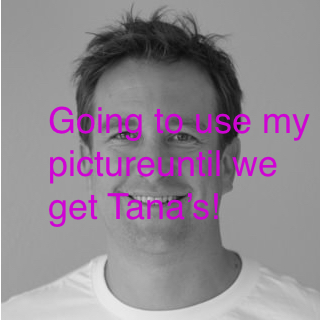
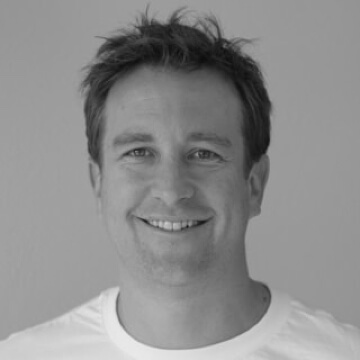
added formatting for team

diff --git a/home.html b/home.html
@@ -325,7 +325,7 @@
 
         <div class="portfolio__items">
 
-          <div class="col-xs-6 col-sm-4 col-md-3">
+          <div class="col-xs-6 col-md-4">
             <div class="portfolio__item">
               <div class="portfolio-item__img">
                 <a href="img/portfolio_1.jpg" data-lightbox="portfolio">
@@ -345,7 +345,7 @@
             </div> <!-- / .portfolio__item -->
           </div>
 
-          <div class="col-xs-6 col-sm-4 col-md-3">
+          <div class="col-xs-6 col-md-4">
             <div class="portfolio__item">
               <div class="portfolio-item__img">
                 <a href="img/portfolio_2.jpg" data-lightbox="portfolio">
@@ -365,7 +365,7 @@
             </div> <!-- / .portfolio__item -->
           </div>
 
-          <div class="col-xs-6 col-sm-4 col-md-3">
+          <div class="col-xs-6 col-md-4">
             <div class="portfolio__item">
               <div class="portfolio-item__img">
                 <a href="img/portfolio_3.jpg" data-lightbox="portfolio">
@@ -385,7 +385,7 @@
             </div> <!-- / .portfolio__item -->
           </div>
 
-          <div class="col-xs-6 col-sm-4 col-md-3">
+          <div class="col-xs-6 col-md-4">
             <div class="portfolio__item">
               <div class="portfolio-item__img">
                 <a href="img/portfolio_4.jpg" data-lightbox="portfolio">
@@ -405,7 +405,7 @@
             </div> <!-- / .portfolio__item -->
           </div>
 
-          <div class="col-xs-6 col-sm-4 col-md-3">
+          <div class="col-xs-6 col-md-4">
             <div class="portfolio__item">
               <div class="portfolio-item__img">
                 <a href="img/portfolio_5.jpg" data-lightbox="portfolio">
@@ -425,51 +425,11 @@
             </div> <!-- / .portfolio__item -->
           </div>
 
-          <div class="col-xs-6 col-sm-4 col-md-3">
+          <div class="col-xs-6 col-md-4">
             <div class="portfolio__item">
               <div class="portfolio-item__img">
                 <a href="img/portfolio_6.jpg" data-lightbox="portfolio">
                   <img src="img/portfolio_6.jpg" class="img-responsive" alt="...">
-                  <div class="portfolio-item__mask">
-                    <div class="portfolio-item-mask__content">
-                      <div class="portfolio-item-mask__title">
-                        In cursus diam at ante consectetur
-                      </div>
-                      <div class="portfolio-item-mask__summary">
-                        Pellentesque metus arcu, placerat nec porta in, ultricies id enim. Nullam sit amet viverra sapien, quis aliquet quam.
-                      </div>
-                    </div> <!-- / .portfolio-item-mask__content -->
-                  </div> <!-- / .portfolio-item__mask -->
-                </a>
-              </div> <!-- / .portfolio-item__img -->
-            </div> <!-- / .portfolio__item -->
-          </div>
-
-          <div class="col-xs-6 col-sm-4 col-md-3">
-            <div class="portfolio__item">
-              <div class="portfolio-item__img">
-                <a href="img/portfolio_7.jpg" data-lightbox="portfolio">
-                  <img src="img/portfolio_7.jpg" class="img-responsive" alt="...">
-                  <div class="portfolio-item__mask">
-                    <div class="portfolio-item-mask__content">
-                      <div class="portfolio-item-mask__title">
-                        In cursus diam at ante consectetur
-                      </div>
-                      <div class="portfolio-item-mask__summary">
-                        Pellentesque metus arcu, placerat nec porta in, ultricies id enim. Nullam sit amet viverra sapien, quis aliquet quam.
-                      </div>
-                    </div> <!-- / .portfolio-item-mask__content -->
-                  </div> <!-- / .portfolio-item__mask -->
-                </a>
-              </div> <!-- / .portfolio-item__img -->
-            </div> <!-- / .portfolio__item -->
-          </div>
-
-          <div class="col-xs-6 col-sm-4 col-md-3">
-            <div class="portfolio__item">
-              <div class="portfolio-item__img">
-                <a href="img/portfolio_8.jpg" data-lightbox="portfolio">
-                  <img src="img/portfolio_8.jpg" class="img-responsive" alt="...">
                   <div class="portfolio-item__mask">
                     <div class="portfolio-item-mask__content">
                       <div class="portfolio-item-mask__title">
@@ -512,7 +472,7 @@
                       <img src="img/team-matt.jpg" class="img-responsive" alt="...">
                     </div>
                     <div class="row">
-                      <div class="col-lg-6">
+                      <div class="col-lg-6 team-item__col">
                         <div class="team-item__name">Matt Morris</div>
                         <div class="team-item__position">CEO</div>
                       </div>
@@ -537,7 +497,7 @@
                       <img src="img/team-harvey.jpg" class="img-responsive" alt="...">
                     </div>
                     <div class="row">
-                      <div class="col-lg-6">
+                      <div class="col-lg-6 team-item__col">
                         <div class="team-item__name">Harvey Morris</div>
                         <div class="team-item__position">COO</div>
                       </div>
@@ -562,7 +522,7 @@
                       <img src="img/team-clay.jpg" class="img-responsive" alt="...">
                     </div>
                     <div class="row">
-                      <div class="col-lg-6">
+                      <div class="col-lg-6 team-item__col">
                         <div class="team-item__name">Clay Thompson</div>
                         <div class="team-item__position">Business Development</div>
                       </div>
@@ -587,7 +547,7 @@
                       <img src="img/team-fred.jpg" class="img-responsive" alt="...">
                     </div>
                     <div class="row">
-                      <div class="col-lg-6">
+                      <div class="col-lg-6 team-item__col">
                         <div class="team-item__name">Fred Treuhaft</div>
                         <div class="team-item__position">Business Development</div>
                       </div>
@@ -612,7 +572,7 @@
                       <img src="img/team-gary.jpg" class="img-responsive" alt="...">
                     </div>
                     <div class="row">
-                      <div class="col-lg-6">
+                      <div class="col-lg-6 team-item__col">
                         <div class="team-item__name">Gary Haith, PHD</div>
                         <div class="team-item__position">CTO</div>
                       </div>
@@ -637,7 +597,7 @@
                       <img src="img/team-jay.jpg" class="img-responsive" alt="...">
                     </div>
                     <div class="row">
-                      <div class="col-lg-6">
+                      <div class="col-lg-6 team-item__col">
                         <div class="team-item__name">Jay Treuhaft</div>
                         <div class="team-item__position">Marketing/Business Development</div>
                       </div>
@@ -656,13 +616,16 @@
                   </div> <!-- / .team__item -->
                 </div>
 
+              </div> <!-- / .row -->
+              <div class="row">
+
                 <div class="col-xs-6 col-sm-4 col-lg-2">
                   <div class="team__item">
                     <div class="team-item__img">
                       <img src="img/team-kaile.jpg" class="img-responsive" alt="...">
                     </div>
                     <div class="row">
-                      <div class="col-lg-6">
+                      <div class="col-lg-6 team-item__col">
                         <div class="team-item__name">Kaile Hilliard, LCSW</div>
                         <div class="team-item__position">Consultant/Business Development</div>
                       </div>
@@ -687,7 +650,7 @@
                       <img src="img/team-kevin.jpg" class="img-responsive" alt="...">
                     </div>
                     <div class="row">
-                      <div class="col-lg-6">
+                      <div class="col-lg-6 team-item__col">
                         <div class="team-item__name">Kevin Goeta-Kreisler, MD-Psychiatrist</div>
                         <div class="team-item__position">Consultant</div>
                       </div>
@@ -712,7 +675,7 @@
                       <img src="img/team-mark.jpg" class="img-responsive" alt="...">
                     </div>
                     <div class="row">
-                      <div class="col-lg-6">
+                      <div class="col-lg-6 team-item__col">
                         <div class="team-item__name">Mark DeClouet-Psychiatric Nurse Practioner</div>
                         <div class="team-item__position">Consultant</div>
                       </div>
@@ -737,7 +700,7 @@
                       <img src="img/team-tracy.jpg" class="img-responsive" alt="...">
                     </div>
                     <div class="row">
-                      <div class="col-lg-6">
+                      <div class="col-lg-6 team-item__col">
                         <div class="team-item__name">Tracy Cooley, RN, BSN</div>
                         <div class="team-item__position">Consultant</div>
                       </div>
@@ -762,7 +725,7 @@
                       <img src="img/team-vinny.jpg" class="img-responsive" alt="...">
                     </div>
                     <div class="row">
-                      <div class="col-lg-6">
+                      <div class="col-lg-6 team-item__col">
                         <div class="team-item__name">Vincente “Vinny” Fernandez</div>
                         <div class="team-item__position">UX Design</div>
                       </div>
@@ -787,9 +750,9 @@
                       <img src="img/team-darren.jpg" class="img-responsive" alt="...">
                     </div>
                     <div class="row">
-                      <div class="col-lg-6">
-                        <div class="team-item__name">Tana Dell, LCSW</div>
-                        <div class="team-item__position">Consultant</div>
+                      <div class="col-lg-6 team-item__col">
+                        <div class="team-item__name">Darren Jack</div>
+                        <div class="team-item__position">Web Development</div>
                       </div>
                       <!-- <div class="col-md-6">
                         <div class="team-item__contact">

diff --git a/css/styles.css b/css/styles.css
@@ -255,7 +255,7 @@ th {
     border: 1px solid #ddd !important;
   }
 }
-  
+
 * {
   -webkit-box-sizing: border-box;
   -moz-box-sizing: border-box;
@@ -6625,6 +6625,9 @@ body {
 .team-item-contact__link_linkedin:hover,
 .team-item-contact__link_linkedin:focus {
   background: #1a84bc;
+}
+.team-item__col {
+  min-height: 69px;
 }
 .team-item__name {
   font-weight: 700;
